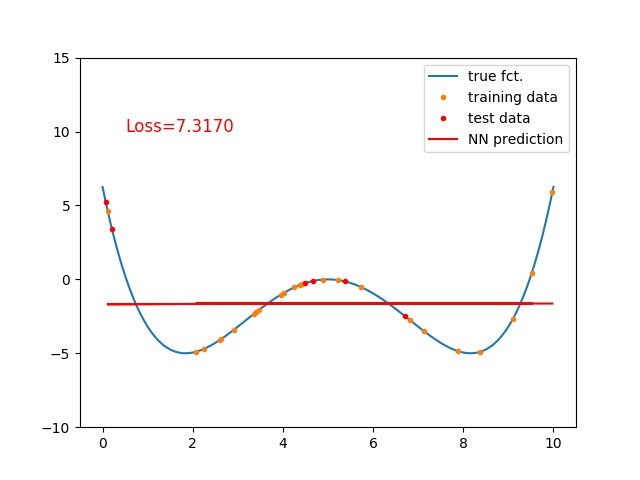
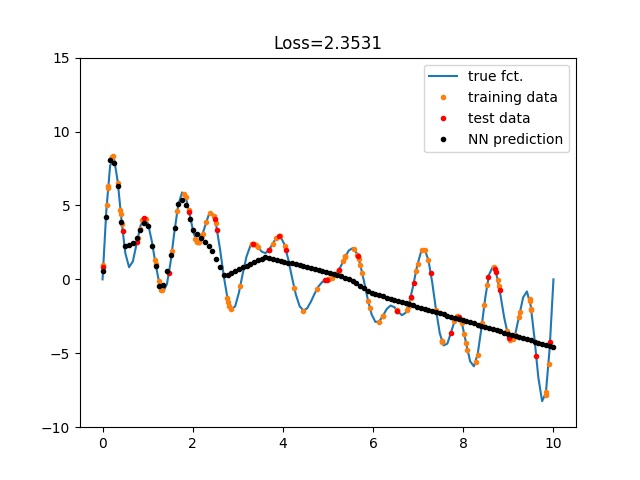
implemented five-layer network

diff --git a/visualise_trajectory.py b/visualise_trajectory.py
@@ -3,6 +3,8 @@
 
 
 import torch
+from torch import nn
+from torch.autograd import Variable
 import torch.nn.functional as F
 import numpy as np
 import matplotlib
@@ -26,33 +28,52 @@ def fractalLike(x, L=10): # fractal-like Fourier series from Ann. Stat. 34, 1636
     return 2.0*series
 
 
-class Net(torch.nn.Module): # from https://github.com/MorvanZhou/PyTorch-Tutorial/blob/master/tutorial-contents/301_regression.py
+class singleLayerNet(nn.Module): # from https://github.com/MorvanZhou/PyTorch-Tutorial/blob/master/tutorial-contents/301_regression.py
     def __init__(self, n_feature, n_hidden, n_output):
-        super(Net, self).__init__()
-        self.hidden = torch.nn.Linear(n_feature, n_hidden)   # single hidden layer with n_hidden output features
-        self.predict = torch.nn.Linear(n_hidden, n_output)   # output layer
+        super(singleLayerNet, self).__init__()
+        self.hidden = nn.Linear(n_feature, n_hidden)   # single hidden layer with n_hidden output features
+        self.predict = nn.Linear(n_hidden, n_output)   # output layer
 
     def forward(self, x):
         x = F.relu(self.hidden(x))      # activation function for hidden layer
         x = self.predict(x)             # linear output
         return x
+    
+class threeLayerNet(nn.Module): # from https://github.com/MorvanZhou/PyTorch-Tutorial/blob/master/tutorial-contents/301_regression.py
+    def __init__(self, n_feature, n_hidden, n_output):
+        super(threeLayerNet, self).__init__()
+        self.hidden1 = nn.Linear(n_feature, n_hidden)   # input layer with n_hidden output features
+        self.hidden2 = nn.Linear(n_hidden, n_hidden-20)  # single hidden layer with n_hidden output features
+        n_hidden -= 20 # narrow down the NN
+        self.hidden3 = nn.Linear(n_hidden, n_hidden)    # single hidden layer with n_hidden output features
+        self.predict = nn.Linear(n_hidden, n_output)    # output layer
+
+    def forward(self, x):
+        x = F.sigmoid(self.hidden1(x))      # activation function for hidden layer
+        x = F.relu(self.hidden2(x))
+        x = F.relu(self.hidden3(x))
+        x = self.predict(x)             # linear output
+        return x    
 
 
 if __name__ == "__main__":
     # sample from function
-    N       = 30         # how many total sampled points
+    N       = 150         # how many total sampled points
     N_train = int(0.8*N) # how many training points
     
     L = 10 # sample points between 0 and this value
     X = L*np.random.rand(N)
     
-    samplingFunction = dblWell
+    samplingFunction = fractalLike
     y = samplingFunction(X) # choose which function to sample from
     
     X_train = X[:N_train] # training data
     y_train = y[:N_train]
     X_test = X[N_train:]  # validation data
     y_test = y[N_train:]
+    
+    X_train = X_train.reshape(-1,1)
+    y_train = y_train.reshape(-1,1)
 
     
     mode = "torch"
@@ -77,23 +98,38 @@ if __name__ == "__main__":
         
     elif (mode == "torch"):
         n_features = 1
-        
-        net = Net(n_features, n_hidden=10, n_output=1)     # define the network
-        x = torch.from_numpy(X_train).float().view(N_train, n_features)
+        x = torch.from_numpy(X_train).float()
         y = torch.from_numpy(y_train).float()
         
-        optimizer = torch.optim.SGD(net.parameters(), lr=0.2)
-        loss_func = torch.nn.MSELoss()  # this is for regression mean squared loss
+        # characterise neural net
+        H1,H2,H3,H4,H5 = 80,60,40,40,20
         
-        for t in range(200):
-            prediction = net(x)     # input x and predict based on x
+        net = nn.Sequential(nn.Linear(x.shape[1],H1),    # define the network
+                            nn.ReLU(), 
+                            nn.Linear(H1, H2), 
+                            nn.ReLU(), 
+                            nn.Linear(H2, H3), 
+                            nn.ReLU(), 
+                            nn.Linear(H3, H4), 
+                            nn.ReLU(), 
+                            nn.Linear(H4, H5), 
+                            nn.ReLU(), 
+                            nn.Linear(H5, x.shape[1]))
+                            #nn.LogSoftmax(dim=1))    
+        epochs = 500
+
+        optimizer = torch.optim.Adam(net.parameters(), lr=0.01)
+        loss_func = nn.MSELoss()  # mean squared loss for regression
+        
+        for t in range(epochs):
+            prediction = net(x)     # input x and predict yhat based on x
             loss = loss_func(prediction, y)     # must be (1. nn output, 2. target)
         
             optimizer.zero_grad()   # clear gradients for next train
             loss.backward()         # backpropagation, compute gradients
             optimizer.step()        # apply gradients
             
-            if t % 5 == 0:
+            if t % int(epochs/20) == 0:
                 # show learning process
                 print('Loss=%.4f' % loss.data.numpy())
                 if (progress_plots):
@@ -109,9 +145,11 @@ if __name__ == "__main__":
         plt.plot(X_test, y_test, 'r.', label='test data')
         plt.ylim(-10,15)
         
-        plt.plot(x.data.numpy(), prediction.data.numpy(), 'r-', label='NN prediction')
+        prediction = net(Variable(torch.Tensor(plotrange.reshape(-1,1))))
+        
+        plt.plot(plotrange, prediction.data.numpy(), 'k.', label='NN prediction')
         plt.legend()
-        plt.text(0.5, 10, 'Loss=%.4f' % loss.data.numpy(), fontdict={'size': 12, 'color':  'red'})
+        plt.title('Loss=%.4f' % loss.data.numpy())
         
         plt.savefig('prediction.jpg')
     
